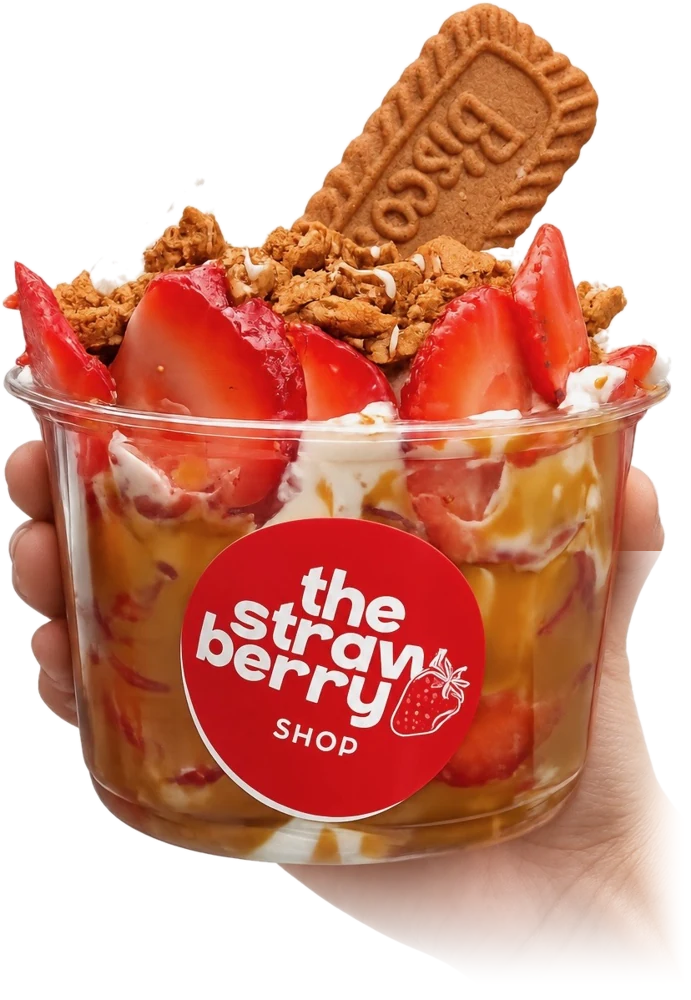
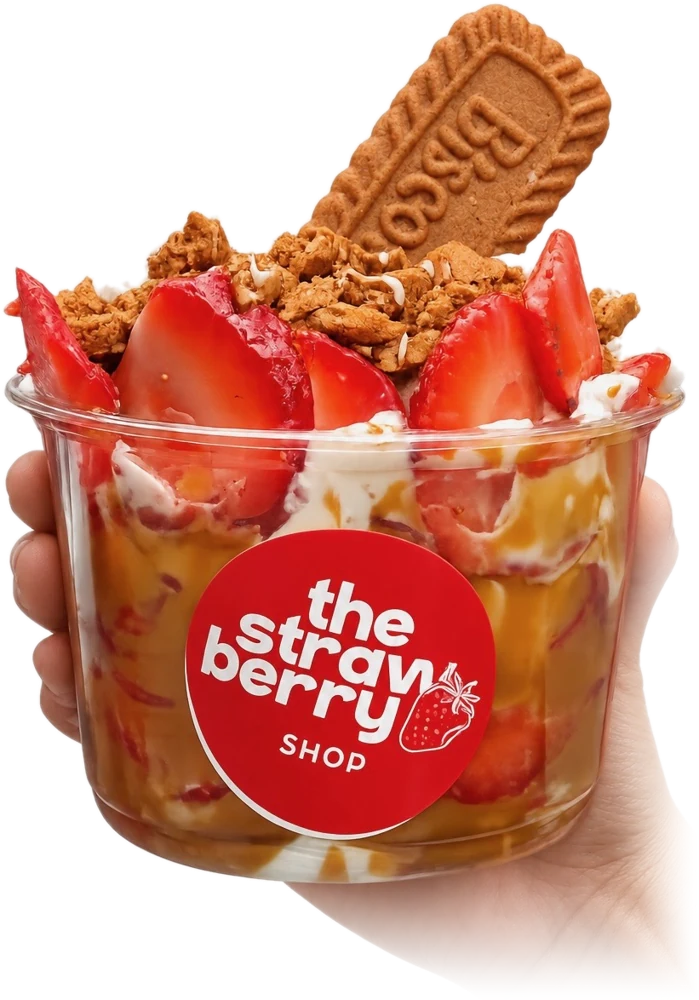
Sofia's round of fixes, plus event location on the catering form
- Titles use the logo font (Fredoka) instead of Abril Fatface
- Menu page title in white
- Gift Cards header is white with the wave edge, so the card's own
  white border blends in (drop the card's shadow)
- Brighter, more saturated kiosk photo on Visit Us
- Re-cut the Craving Something Sweet cup: fill the clear-plastic gaps,
  smooth the arm fade, soften the cropped thumb
- Catering form always asks for the event location; the email now
  includes event type, location, guest count and pickup/delivery, and
  no longer fails when the optional message is left blank

Claude-Session: https://claude.ai/code/session_01KM68EKCityAuAVB7hHKWs7

diff --git a/src/pages/GiftCards.jsx b/src/pages/GiftCards.jsx
@@ -7,6 +7,7 @@ import Footer from "@/components/Footer";
 import { Gift, Check } from "lucide-react";
 import HeardAboutPopup from "@/components/HeardAboutPopup";
 import GiftCardVisual from "@/components/GiftCardVisual";
+import WaveDivider from "@/components/WaveDivider";
 
 const AMOUNTS = [25, 50, 75, 100];
 
@@ -105,12 +106,13 @@ export default function GiftCards() {
     <div className="min-h-screen bg-white">
       <Navbar />
 
-      <section style={{ background: "linear-gradient(135deg, #E61F3F 0%, #C4112F 100%)" }} className="relative overflow-hidden">
-        <div className="max-w-3xl mx-auto px-4 sm:px-6 lg:px-8 py-16 md:py-20 relative z-10 text-center">
+      {/* White header so the gift card's own white border blends into the page */}
+      <section className="relative overflow-hidden bg-white">
+        <div className="max-w-3xl mx-auto px-4 sm:px-6 lg:px-8 pt-14 pb-10 md:pt-16 md:pb-12 relative z-10 text-center">
           <motion.h1
             initial={{ opacity: 0, y: 20 }}
             animate={{ opacity: 1, y: 0 }}
-            className="font-bubble text-white text-4xl sm:text-5xl drop-shadow-lg mb-6"
+            className="font-bubble text-[#E61F3F] text-4xl sm:text-5xl mb-6"
           >
             A sweet gift
           </motion.h1>
@@ -132,11 +134,12 @@ export default function GiftCards() {
             initial={{ opacity: 0, y: 20 }}
             animate={{ opacity: 1, y: 0 }}
             transition={{ delay: 0.2 }}
-            className="text-white/80 font-body text-base sm:text-lg max-w-xl mx-auto"
+            className="text-[#C4112F]/80 font-body text-base sm:text-lg max-w-xl mx-auto"
           >
             Make someone's day a little sweeter with a gift card they can use toward their favorite strawberry desserts. The perfect gift for celebrations, special moments, or simply because
           </motion.p>
         </div>
+        <WaveDivider from="white" to="#FDEEF5" />
       </section>
 
       <section style={{ background: "#FDEEF5" }} className="py-14 md:py-20">

diff --git a/base44/functions/sendContactEmail/entry.ts b/base44/functions/sendContactEmail/entry.ts
@@ -6,12 +6,13 @@ Deno.serve(async (req) => {
   try {
     const base44 = createClientFromRequest(req);
     const body = await req.json();
-    const { name, email, phone, event_date, quantity, items_of_interest, message, type } = body;
+    const { name, email, phone, event_type, event_date, event_address, guest_count, quantity, items_of_interest, fulfillment_type, message, type } = body;
 
-    if (!name || !email || !message) {
+    // Catering requests don't require a message; contact messages do.
+    if (!name || !email || (type !== "catering" && !message)) {
       return Response.json({ error: "name, email, and message are required" }, { status: 400 });
     }
-    if (String(name).length > 200 || String(email).length > 200 || String(message).length > 5000) {
+    if (String(name).length > 200 || String(email).length > 200 || String(message || "").length > 5000 || String(event_address || "").length > 500) {
       return Response.json({ error: "Input too long" }, { status: 400 });
     }
 
@@ -38,8 +39,11 @@ Deno.serve(async (req) => {
       `New ${label} from ${name}`,
       `Email: ${email}`,
       phone ? `Phone: ${phone}` : null,
+      event_type ? `Event Type: ${event_type}` : null,
       event_date ? `Event Date: ${event_date}` : null,
-      quantity ? `Guest Count / Quantity: ${quantity}` : null,
+      event_address ? `Event Location: ${event_address}` : null,
+      (guest_count || quantity) ? `Guest Count: ${guest_count || quantity}` : null,
+      fulfillment_type ? `Pickup or Delivery: ${fulfillment_type}` : null,
       items_of_interest ? `Items of Interest: ${items_of_interest}` : null,
       message ? `Message: ${message}` : null,
     ].filter(Boolean).join("\n");

diff --git a/src/pages/Catering.jsx b/src/pages/Catering.jsx
@@ -143,6 +143,10 @@ export default function Catering() {
                   <input type="date" value={form.event_date} onChange={(e) => setForm({ ...form, event_date: e.target.value })} className={inputClass} required />
                 </div>
               </div>
+              <div>
+                <label className="block font-body text-xs text-[#6b7280] mb-1.5">Event Location *</label>
+                <input type="text" value={form.event_address} onChange={(e) => setForm({ ...form, event_address: e.target.value })} placeholder="Venue name or address" className={inputClass} required />
+              </div>
               <div className="grid grid-cols-1 sm:grid-cols-2 gap-4">
                 <div>
                   <label className="block font-body text-xs text-[#6b7280] mb-1.5">Guest Count *</label>
@@ -170,12 +174,6 @@ export default function Catering() {
                   ))}
                 </div>
               </div>
-              {form.fulfillment_type === "Delivery" && (
-                <div>
-                  <label className="block font-body text-xs text-[#6b7280] mb-1.5">Event Address *</label>
-                  <input type="text" value={form.event_address} onChange={(e) => setForm({ ...form, event_address: e.target.value })} placeholder="Where should we deliver?" className={inputClass} required />
-                </div>
-              )}
             </div>
 
             <div className="space-y-4 pt-2 border-t border-[#F8CCE1]">

diff --git a/src/index.css b/src/index.css
@@ -31,7 +31,7 @@
     --chart-4: 43 74% 66%;
     --chart-5: 27 87% 67%;
     --radius: 1rem;
-    --font-heading: 'Abril Fatface', serif;
+    --font-heading: 'Fredoka', sans-serif;
     --font-body: 'Quicksand', sans-serif;
     --font-display: 'Fredoka', sans-serif;
     --font-mono: ui-monospace, SFMono-Regular, Menlo, Monaco, Consolas, "Liberation Mono", "Courier New", monospace;
@@ -130,8 +130,8 @@
 }
 
 .font-bubble {
-  font-family: 'Abril Fatface', serif;
-  font-weight: 400;
+  font-family: 'Fredoka', sans-serif;
+  font-weight: 600;
 }
 
 .font-cursive {

diff --git a/src/components/GiftCardVisual.jsx b/src/components/GiftCardVisual.jsx
@@ -13,7 +13,7 @@ export default function GiftCardVisual({ amount, recipientName, senderName, clas
       initial={{ opacity: 0, y: 20 }}
       animate={{ opacity: 1, y: 0 }}
       transition={{ delay: 0.1 }}
-      className={`relative w-full max-w-md mx-auto rounded-[28px] overflow-hidden shadow-2xl ${className}`}
+      className={`relative w-full max-w-md mx-auto rounded-[28px] overflow-hidden ${className}`}
       style={{ aspectRatio: "3 / 2" }}
     >
       {/* The reference image's white frame is thicker on the left/right than

diff --git a/src/pages/Menu.jsx b/src/pages/Menu.jsx
@@ -55,7 +55,7 @@ export default function Menu() {
         <motion.h1
           initial={{ opacity: 0, y: 20 }}
           animate={{ opacity: 1, y: 0 }}
-          className="font-bubble text-[#E61F3F] text-3xl sm:text-4xl mb-2">
+          className="font-bubble text-white text-3xl sm:text-4xl mb-2 drop-shadow-md">
 
           Choose Your Favorite, or Try Something New
         </motion.h1>
